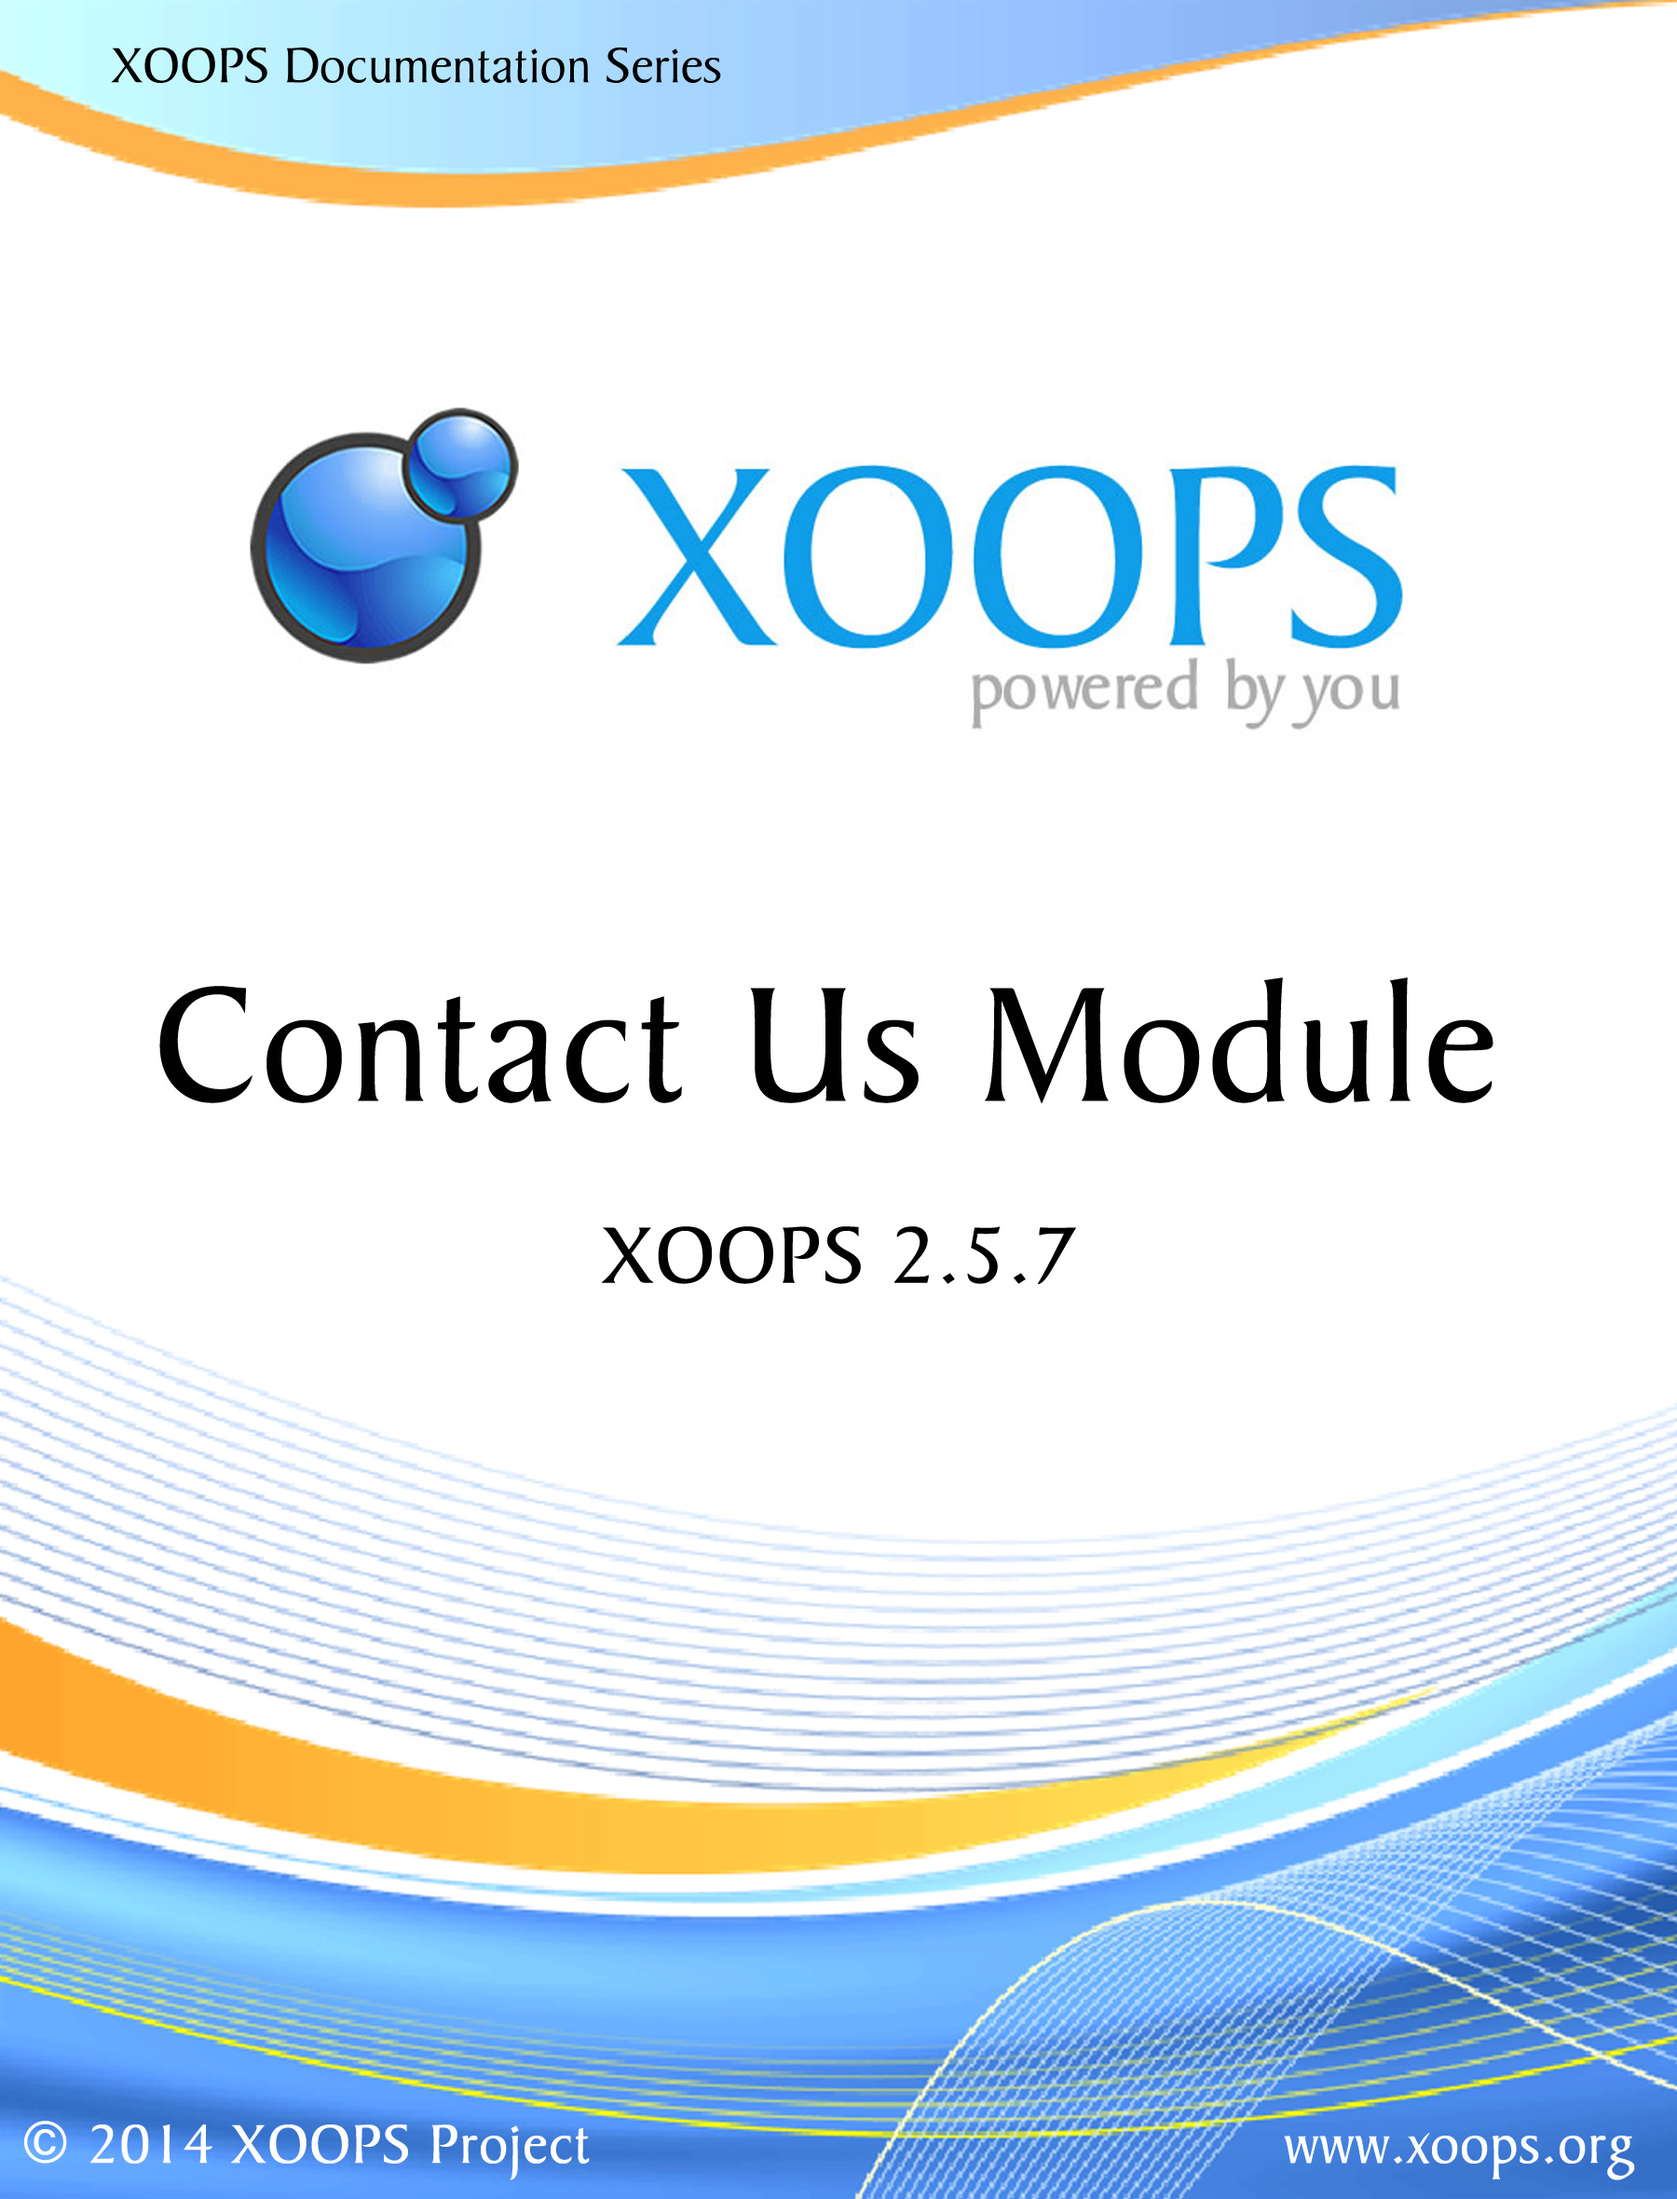
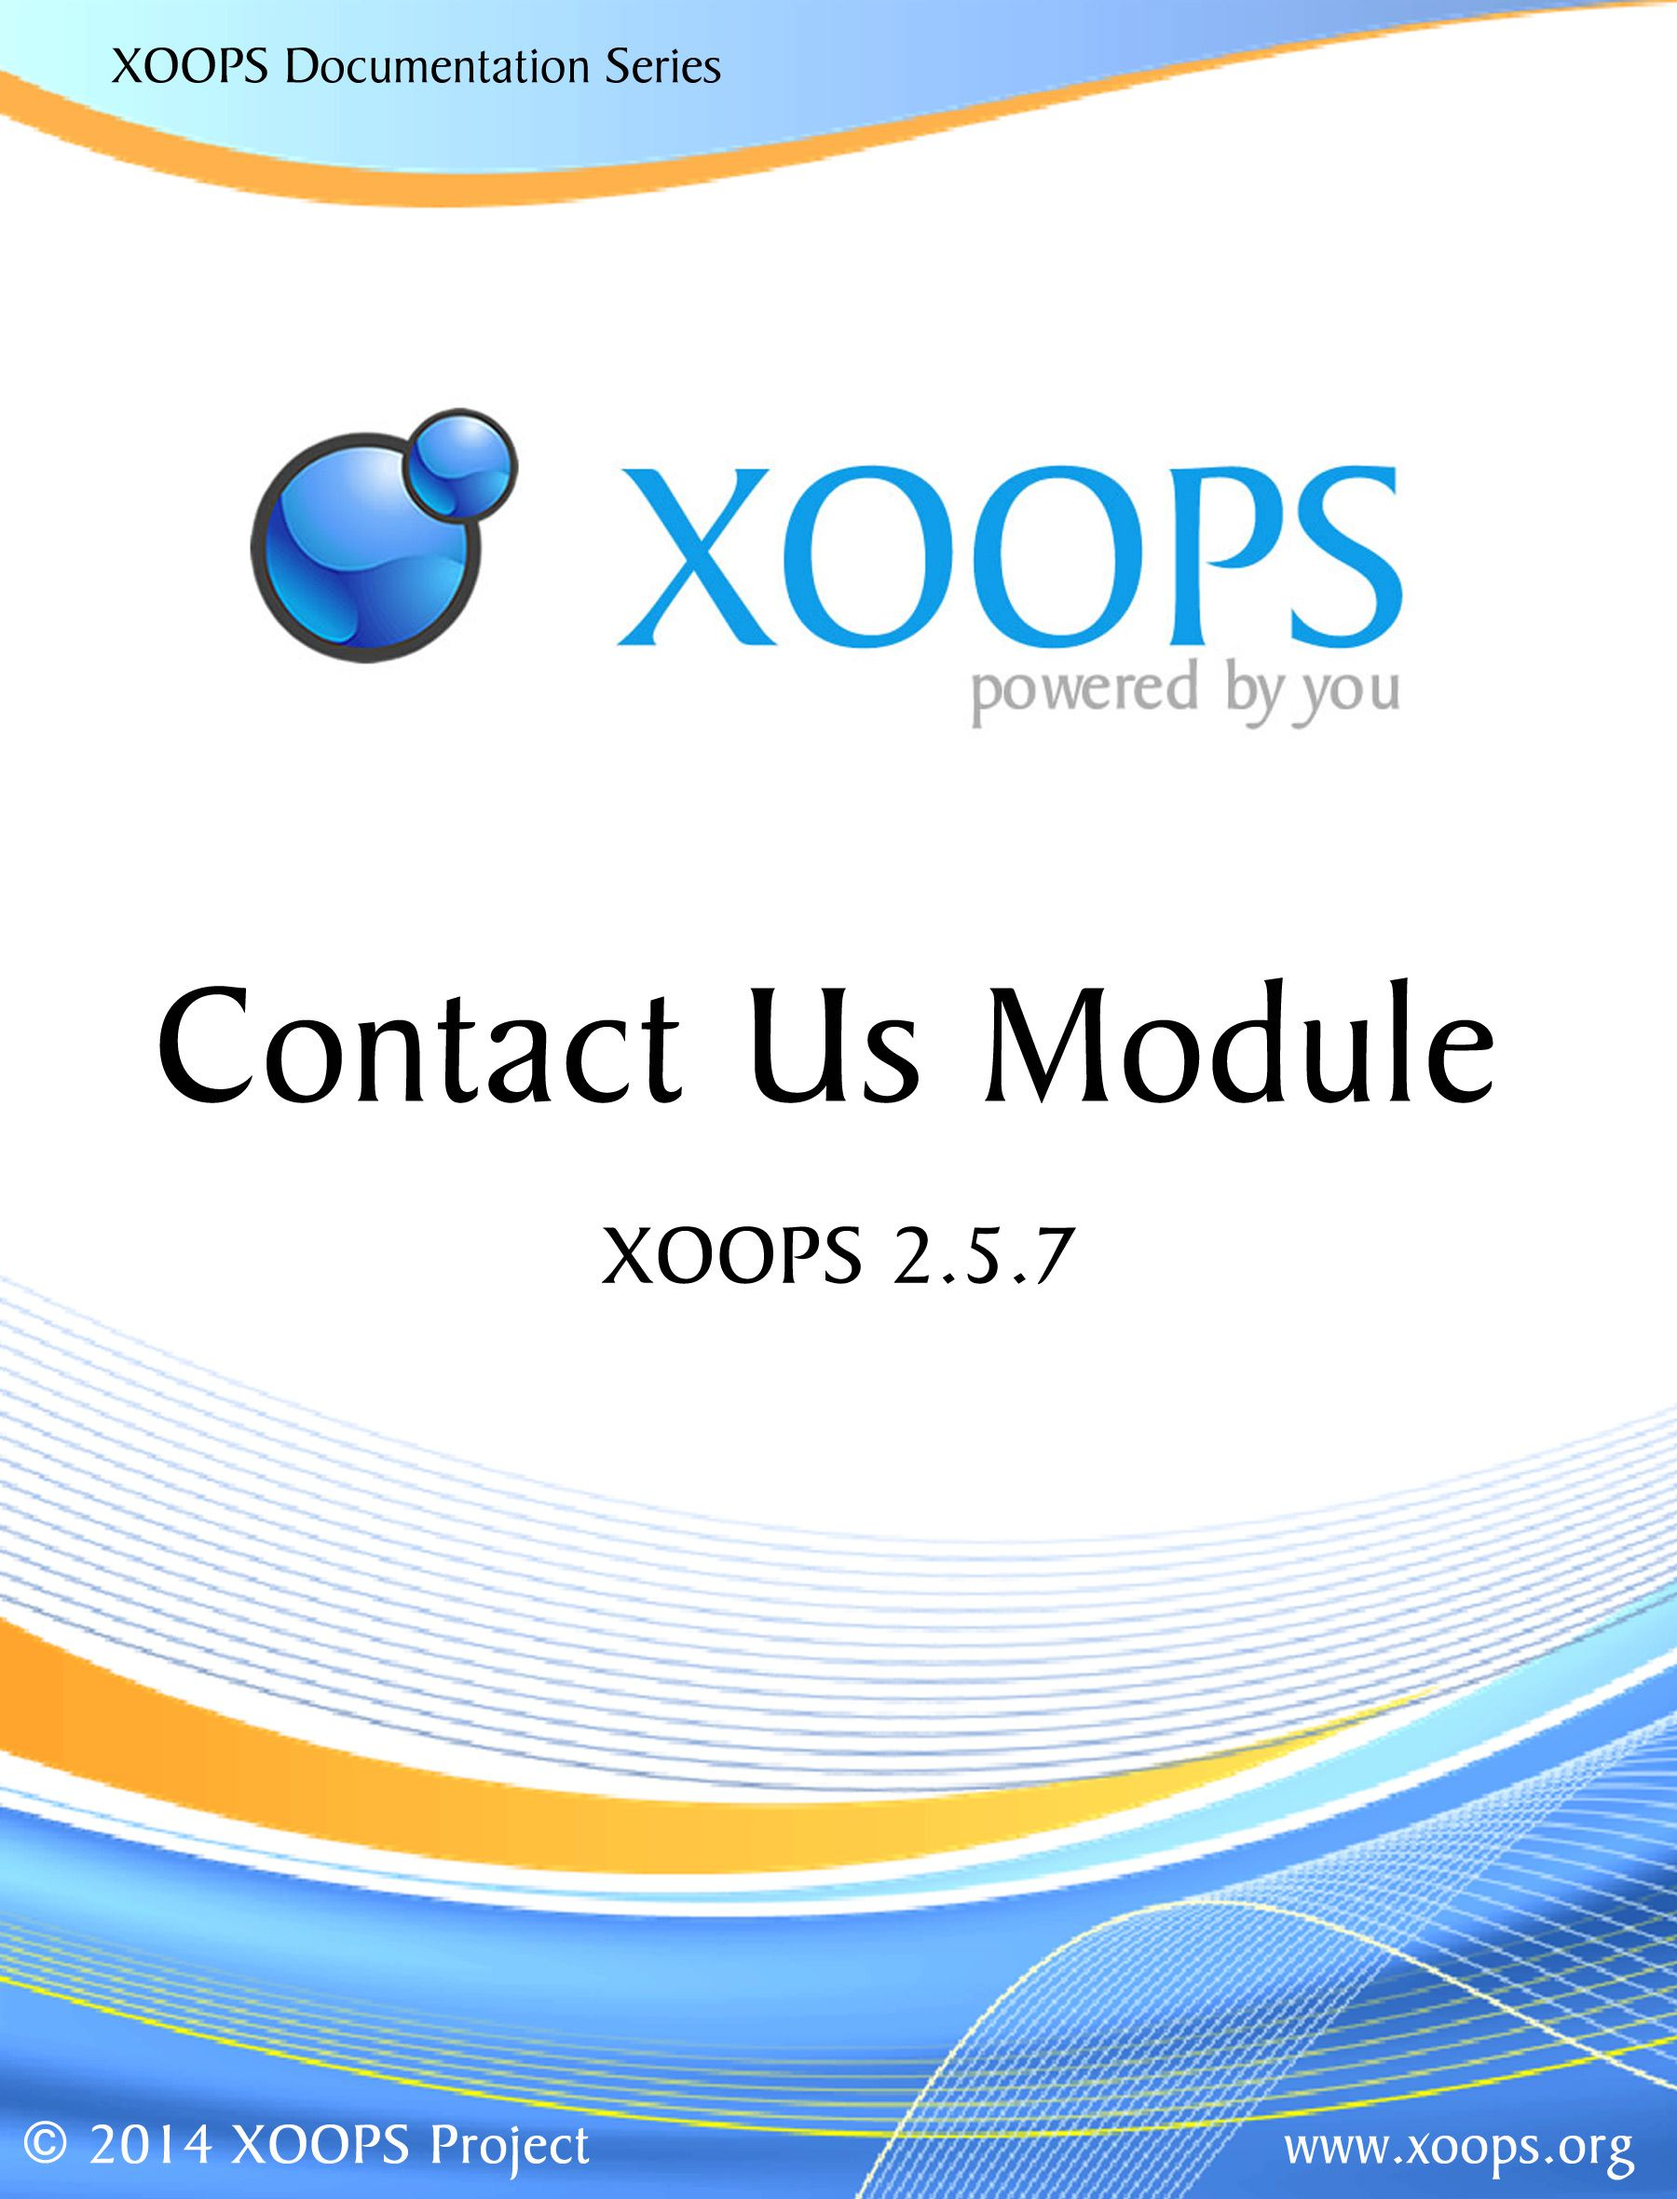
compressing image

Changed region(s): [[0.0622, 0.897, 0.1244, 0.928], [0.9956, 0.897, 1.0, 0.928]]

diff --git a/README.md b/README.md
@@ -8,7 +8,7 @@
  
 ## User Manual
   
-© 2014 The XOOPS Project (www.xoops.org)    
+© 2015 The XOOPS Project (www.xoops.org)    
   
 
 ## Module Purpose 
